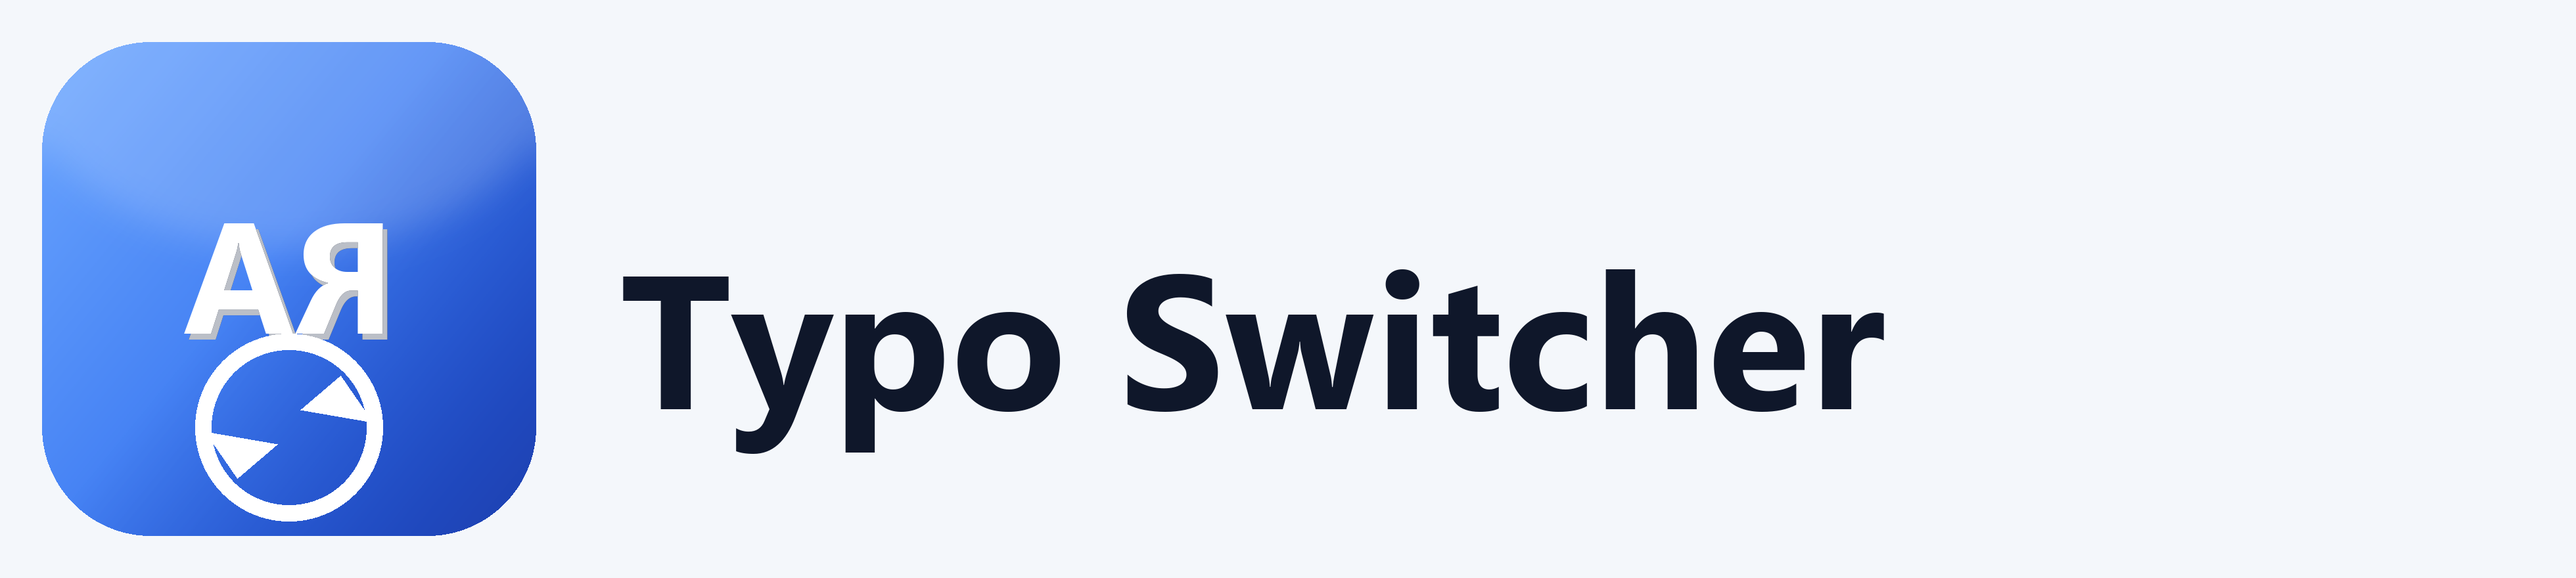
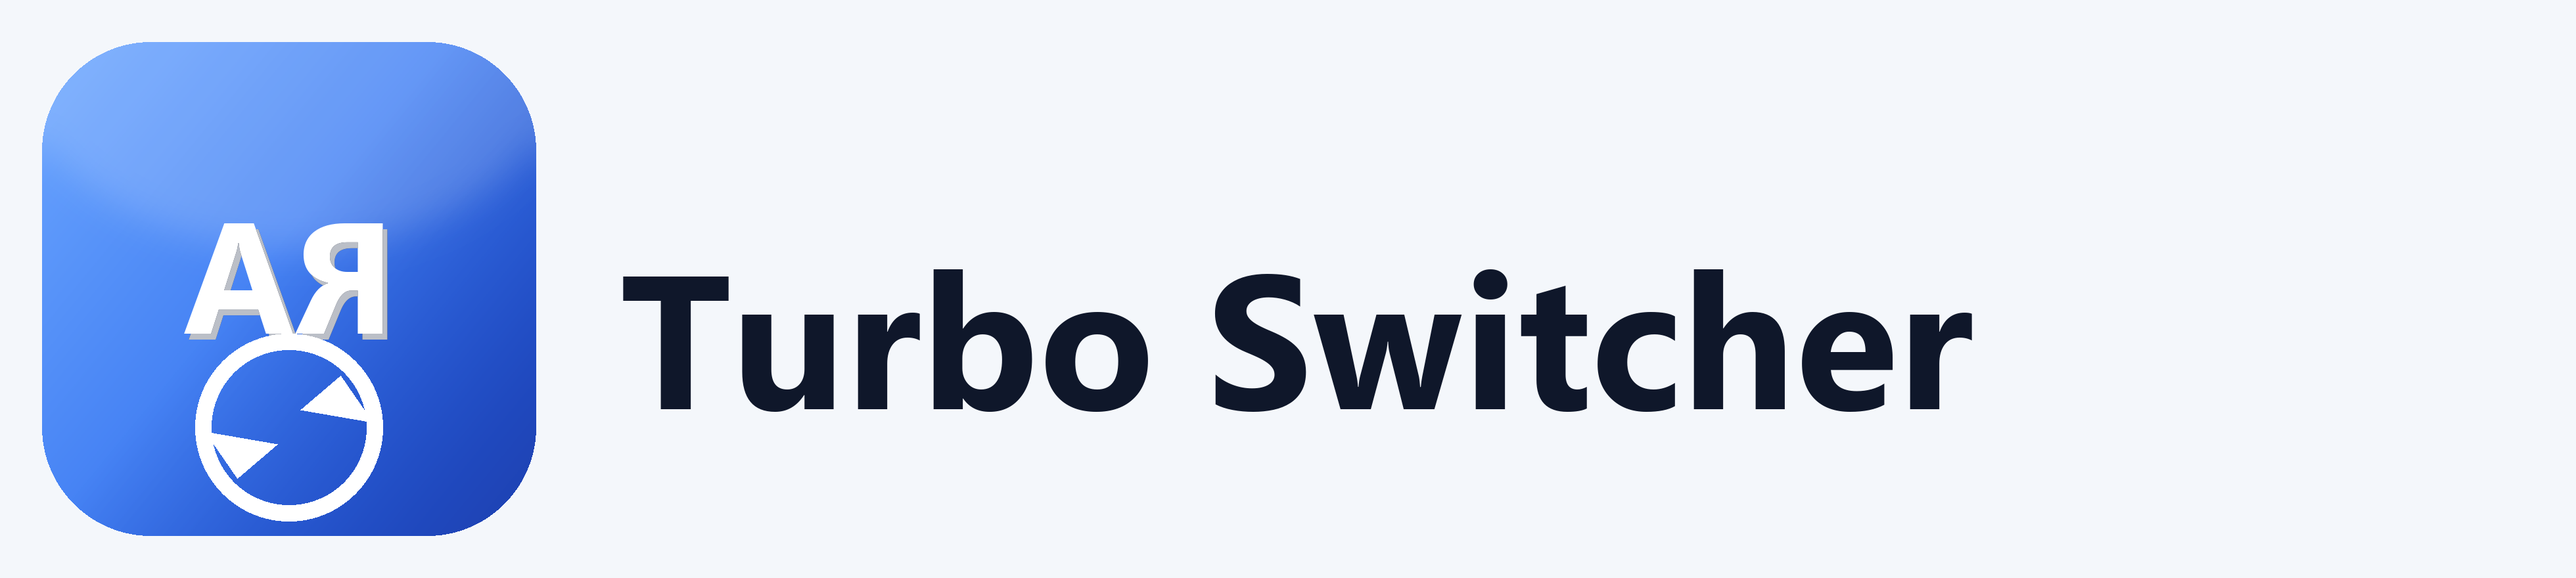
Переименовал в Turbo Switcher

Changed region(s): [[0.2801, 0.4602, 0.7781, 0.7977]]

diff --git a/src/TypoSwitch/StartupShortcut.cs b/src/TypoSwitch/StartupShortcut.cs
@@ -3,17 +3,20 @@ namespace TypoSwitch;
 internal static class StartupShortcut
 {
     private static string CmdPath =>
-        Path.Combine(Environment.GetFolderPath(Environment.SpecialFolder.Startup), "Typo Switcher.cmd");
+        Path.Combine(Environment.GetFolderPath(Environment.SpecialFolder.Startup), "Turbo Switcher.cmd");
 
     public static void Apply(bool enabled)
     {
-        var legacy = Path.Combine(Environment.GetFolderPath(Environment.SpecialFolder.Startup), "TypoSwitch.cmd");
-        if (File.Exists(legacy))
-            File.Delete(legacy);
+        foreach (var name in new[] { "TypoSwitch.cmd", "Typo Switcher.cmd" })
+        {
+            var legacy = Path.Combine(Environment.GetFolderPath(Environment.SpecialFolder.Startup), name);
+            if (File.Exists(legacy))
+                File.Delete(legacy);
+        }
 
         if (enabled)
         {
-            var exe = Environment.ProcessPath ?? Path.Combine(AppContext.BaseDirectory, "TypoSwitch.exe");
+            var exe = Environment.ProcessPath ?? Path.Combine(AppContext.BaseDirectory, "TurboSwitch.exe");
             File.WriteAllText(CmdPath, $"@echo off\r\nstart \"\" \"{exe}\"\r\n");
         }
         else if (File.Exists(CmdPath))

diff --git a/assets/export_brand.py b/assets/export_brand.py
@@ -1,4 +1,4 @@
-"""Export Typo Switcher brand PNGs and a multi-size Windows .ico."""
+"""Export Turbo Switcher brand PNGs and a multi-size Windows .ico."""
 
 from __future__ import annotations
 
@@ -99,7 +99,7 @@ def wordmark(*, dark: bool = False, opaque_light: bool = False, scale: int = 4) 
     draw = ImageDraw.Draw(img)
     f = font(72 * scale)
     color = (248, 250, 252) if dark else (15, 23, 42)
-    draw.text((236 * scale, 78 * scale), "Typo Switcher", font=f, fill=color)
+    draw.text((236 * scale, 78 * scale), "Turbo Switcher", font=f, fill=color)
     return img
 
 
@@ -112,7 +112,7 @@ def banner() -> Image.Image:
     img.alpha_composite(mark, (96, 160))
     title = font(72)
     sub = font(28, bold=False)
-    draw.text((480, 236), "Typo Switcher", font=title, fill=(248, 250, 252))
+    draw.text((480, 236), "Turbo Switcher", font=title, fill=(248, 250, 252))
     draw.text((480, 328), "Исправляет текст, набранный не в той раскладке", font=sub, fill=(147, 197, 253))
     return img
 

diff --git a/src/TypoSwitch.Core/AppConfig.cs b/src/TypoSwitch.Core/AppConfig.cs
@@ -28,7 +28,7 @@ public sealed class AppConfig
         get
         {
             var root = Environment.GetFolderPath(Environment.SpecialFolder.ApplicationData);
-            return Path.Combine(root, "Typo Switcher");
+            return Path.Combine(root, "Turbo Switcher");
         }
     }
 
@@ -37,6 +37,16 @@ public sealed class AppConfig
     public static AppConfig Load()
     {
         Directory.CreateDirectory(DirectoryPath);
+        if (!File.Exists(FilePath))
+        {
+            var legacy = Path.Combine(
+                Environment.GetFolderPath(Environment.SpecialFolder.ApplicationData),
+                "Typo Switcher",
+                "config.json");
+            if (File.Exists(legacy))
+                File.Copy(legacy, FilePath);
+        }
+
         if (!File.Exists(FilePath))
         {
             var created = new AppConfig();

diff --git a/src/TypoSwitch/TrayApplication.cs b/src/TypoSwitch/TrayApplication.cs
@@ -20,7 +20,7 @@ internal sealed class TrayApplication : ApplicationContext
         {
             Icon = _icon,
             Visible = true,
-            Text = "Typo Switcher",
+            Text = "Turbo Switcher",
             ContextMenuStrip = BuildMenu(),
         };
         _tray.DoubleClick += (_, _) => ShowSettings();
@@ -63,7 +63,7 @@ internal sealed class TrayApplication : ApplicationContext
         _tray.Icon = next;
         _icon.Dispose();
         _icon = next;
-        _tray.Text = _config.AutoSwitch ? "Typo Switcher — вкл" : "Typo Switcher — выкл";
+        _tray.Text = _config.AutoSwitch ? "Turbo Switcher — вкл" : "Turbo Switcher — выкл";
     }
 
     protected override void ExitThreadCore()

diff --git a/src/TypoSwitch/Program.cs b/src/TypoSwitch/Program.cs
@@ -5,10 +5,10 @@ internal static class Program
     [STAThread]
     private static void Main()
     {
-        using var mutex = new Mutex(true, @"Local\TypoSwitch.Singleton", out var created);
+        using var mutex = new Mutex(true, @"Local\TurboSwitch.Singleton", out var created);
         if (!created)
         {
-            MessageBox.Show("Typo Switcher уже запущен.", "Typo Switcher", MessageBoxButtons.OK, MessageBoxIcon.Information);
+            MessageBox.Show("Turbo Switcher уже запущен.", "Turbo Switcher", MessageBoxButtons.OK, MessageBoxIcon.Information);
             return;
         }
 

diff --git a/src/TypoSwitch/SettingsForm.cs b/src/TypoSwitch/SettingsForm.cs
@@ -13,7 +13,7 @@ internal sealed class SettingsForm : Form
     public SettingsForm(AppConfig config)
     {
         _config = config;
-        Text = "Typo Switcher — настройки";
+        Text = "Turbo Switcher — настройки";
         Font = new Font("Segoe UI", 10);
         FormBorderStyle = FormBorderStyle.FixedDialog;
         MaximizeBox = false;

diff --git a/src/TypoSwitch/KeyboardEngine.cs b/src/TypoSwitch/KeyboardEngine.cs
@@ -47,7 +47,7 @@ internal sealed class KeyboardEngine : IDisposable
         _worker = new Thread(WorkerLoop)
         {
             IsBackground = true,
-            Name = "TypoSwitch.Jobs",
+            Name = "TurboSwitch.Jobs",
         };
         _worker.Start();
         _hookProc = HookCallback;

diff --git a/README.md b/README.md
@@ -1,19 +1,22 @@
-# Typo Switcher
+# Turbo Switcher
 Бесплатный открытый аналог Punto Switcher для Windows с обычным окном настроек и иконкой в трее.
 
-Собрано на **.NET 8**, не на .NET Framework. `publish.bat` делает один `TypoSwitch.exe` со встроенным runtime: на другой компьютер его можно скопировать как есть, ничего ставить не нужно.
+Собрано на **.NET 8**, не на .NET Framework. `publish.bat` делает два exe.
 
 `ghbdtn` → `привет`, `руддщ` → `hello`. После замены программа переключает раскладку окна.
 
 ## Сборка
 
-Нужен [SDK .NET 8](https://dotnet.microsoft.com/download/dotnet/8.0) только у разработчика. Пользователю SDK не нужен.
+Нужен [SDK .NET 8](https://dotnet.microsoft.com/download/dotnet/8.0) только у разработчика.
 
 ```bat
 publish.bat
 ```
 
-Готовый файл: `publish\TypoSwitch.exe`.
+Готовые файлы:
+
+- `publish\TurboSwitch.exe` — со встроенным runtime, копируется на другой ПК как есть
+- `publish\TurboSwitch-net8.exe` — маленький, на компьютере должен быть [.NET 8 Desktop Runtime](https://dotnet.microsoft.com/download/dotnet/8.0)
 
 Запуск из исходников (нужен SDK):
 
@@ -37,4 +40,4 @@ dotnet test
 - Исключения (`lol`, `github`, `qwe`…) и игнор процессов
 - Caps Lock отключает автозамену
 
-Настройки: `%APPDATA%\Typo Switcher\config.json`.
+Настройки: `%APPDATA%\Turbo Switcher\config.json`.
